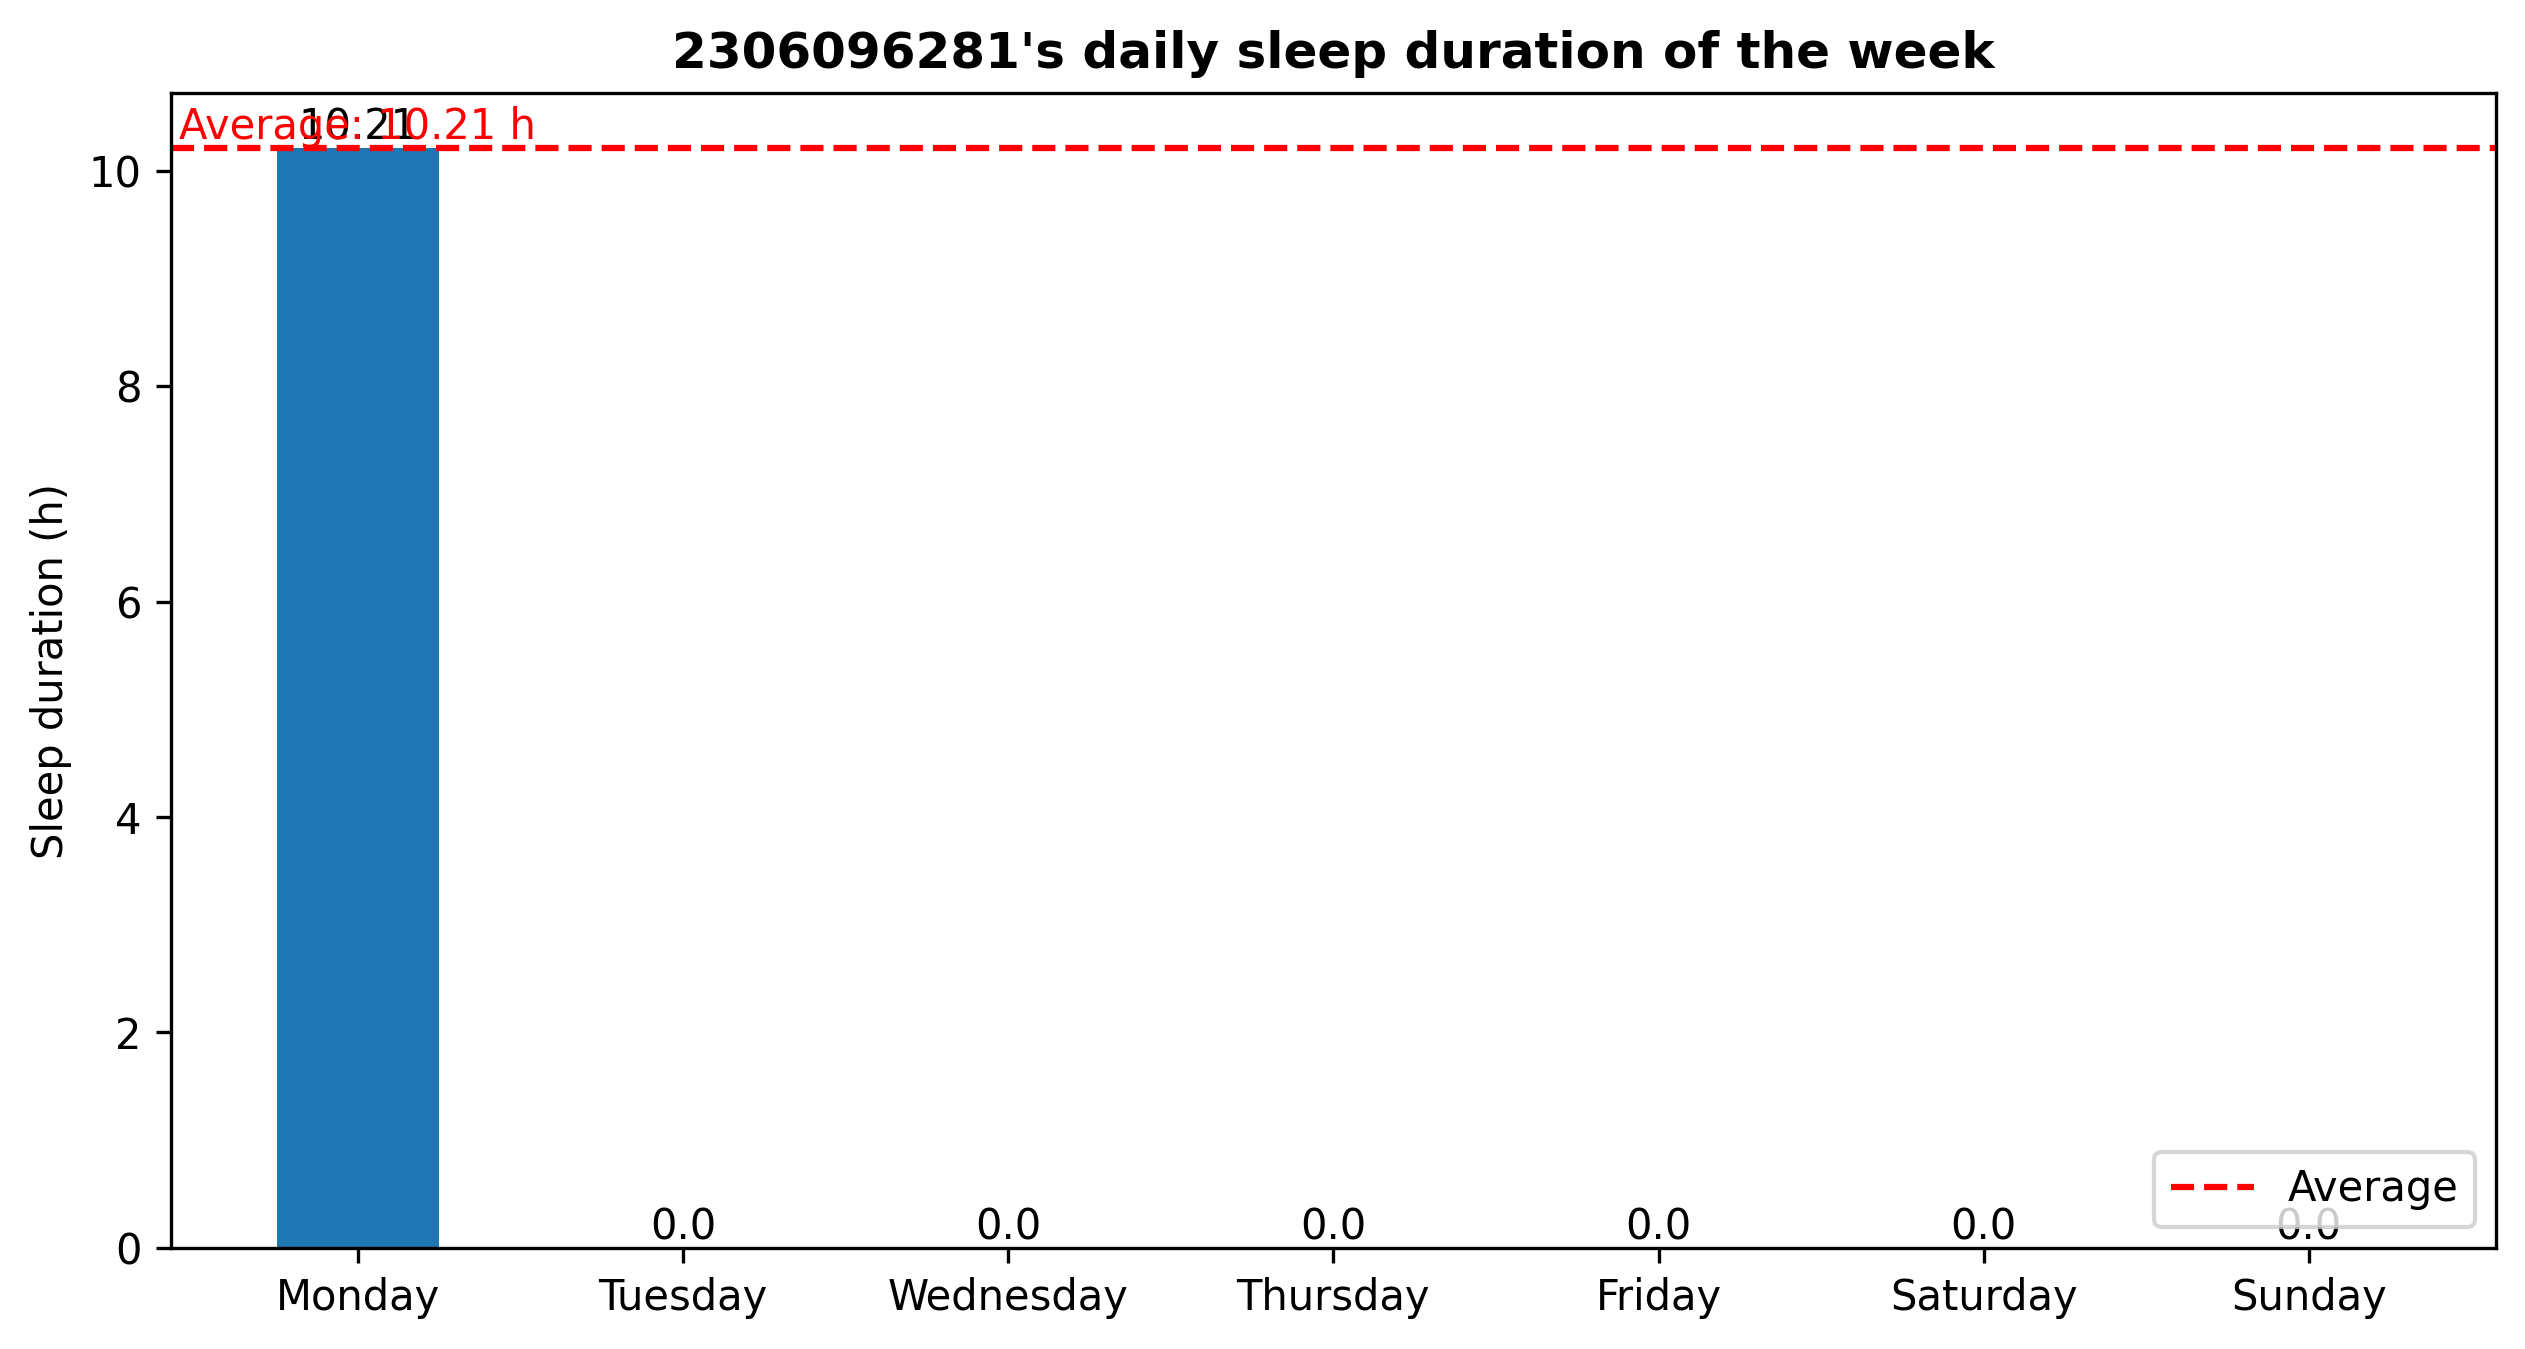
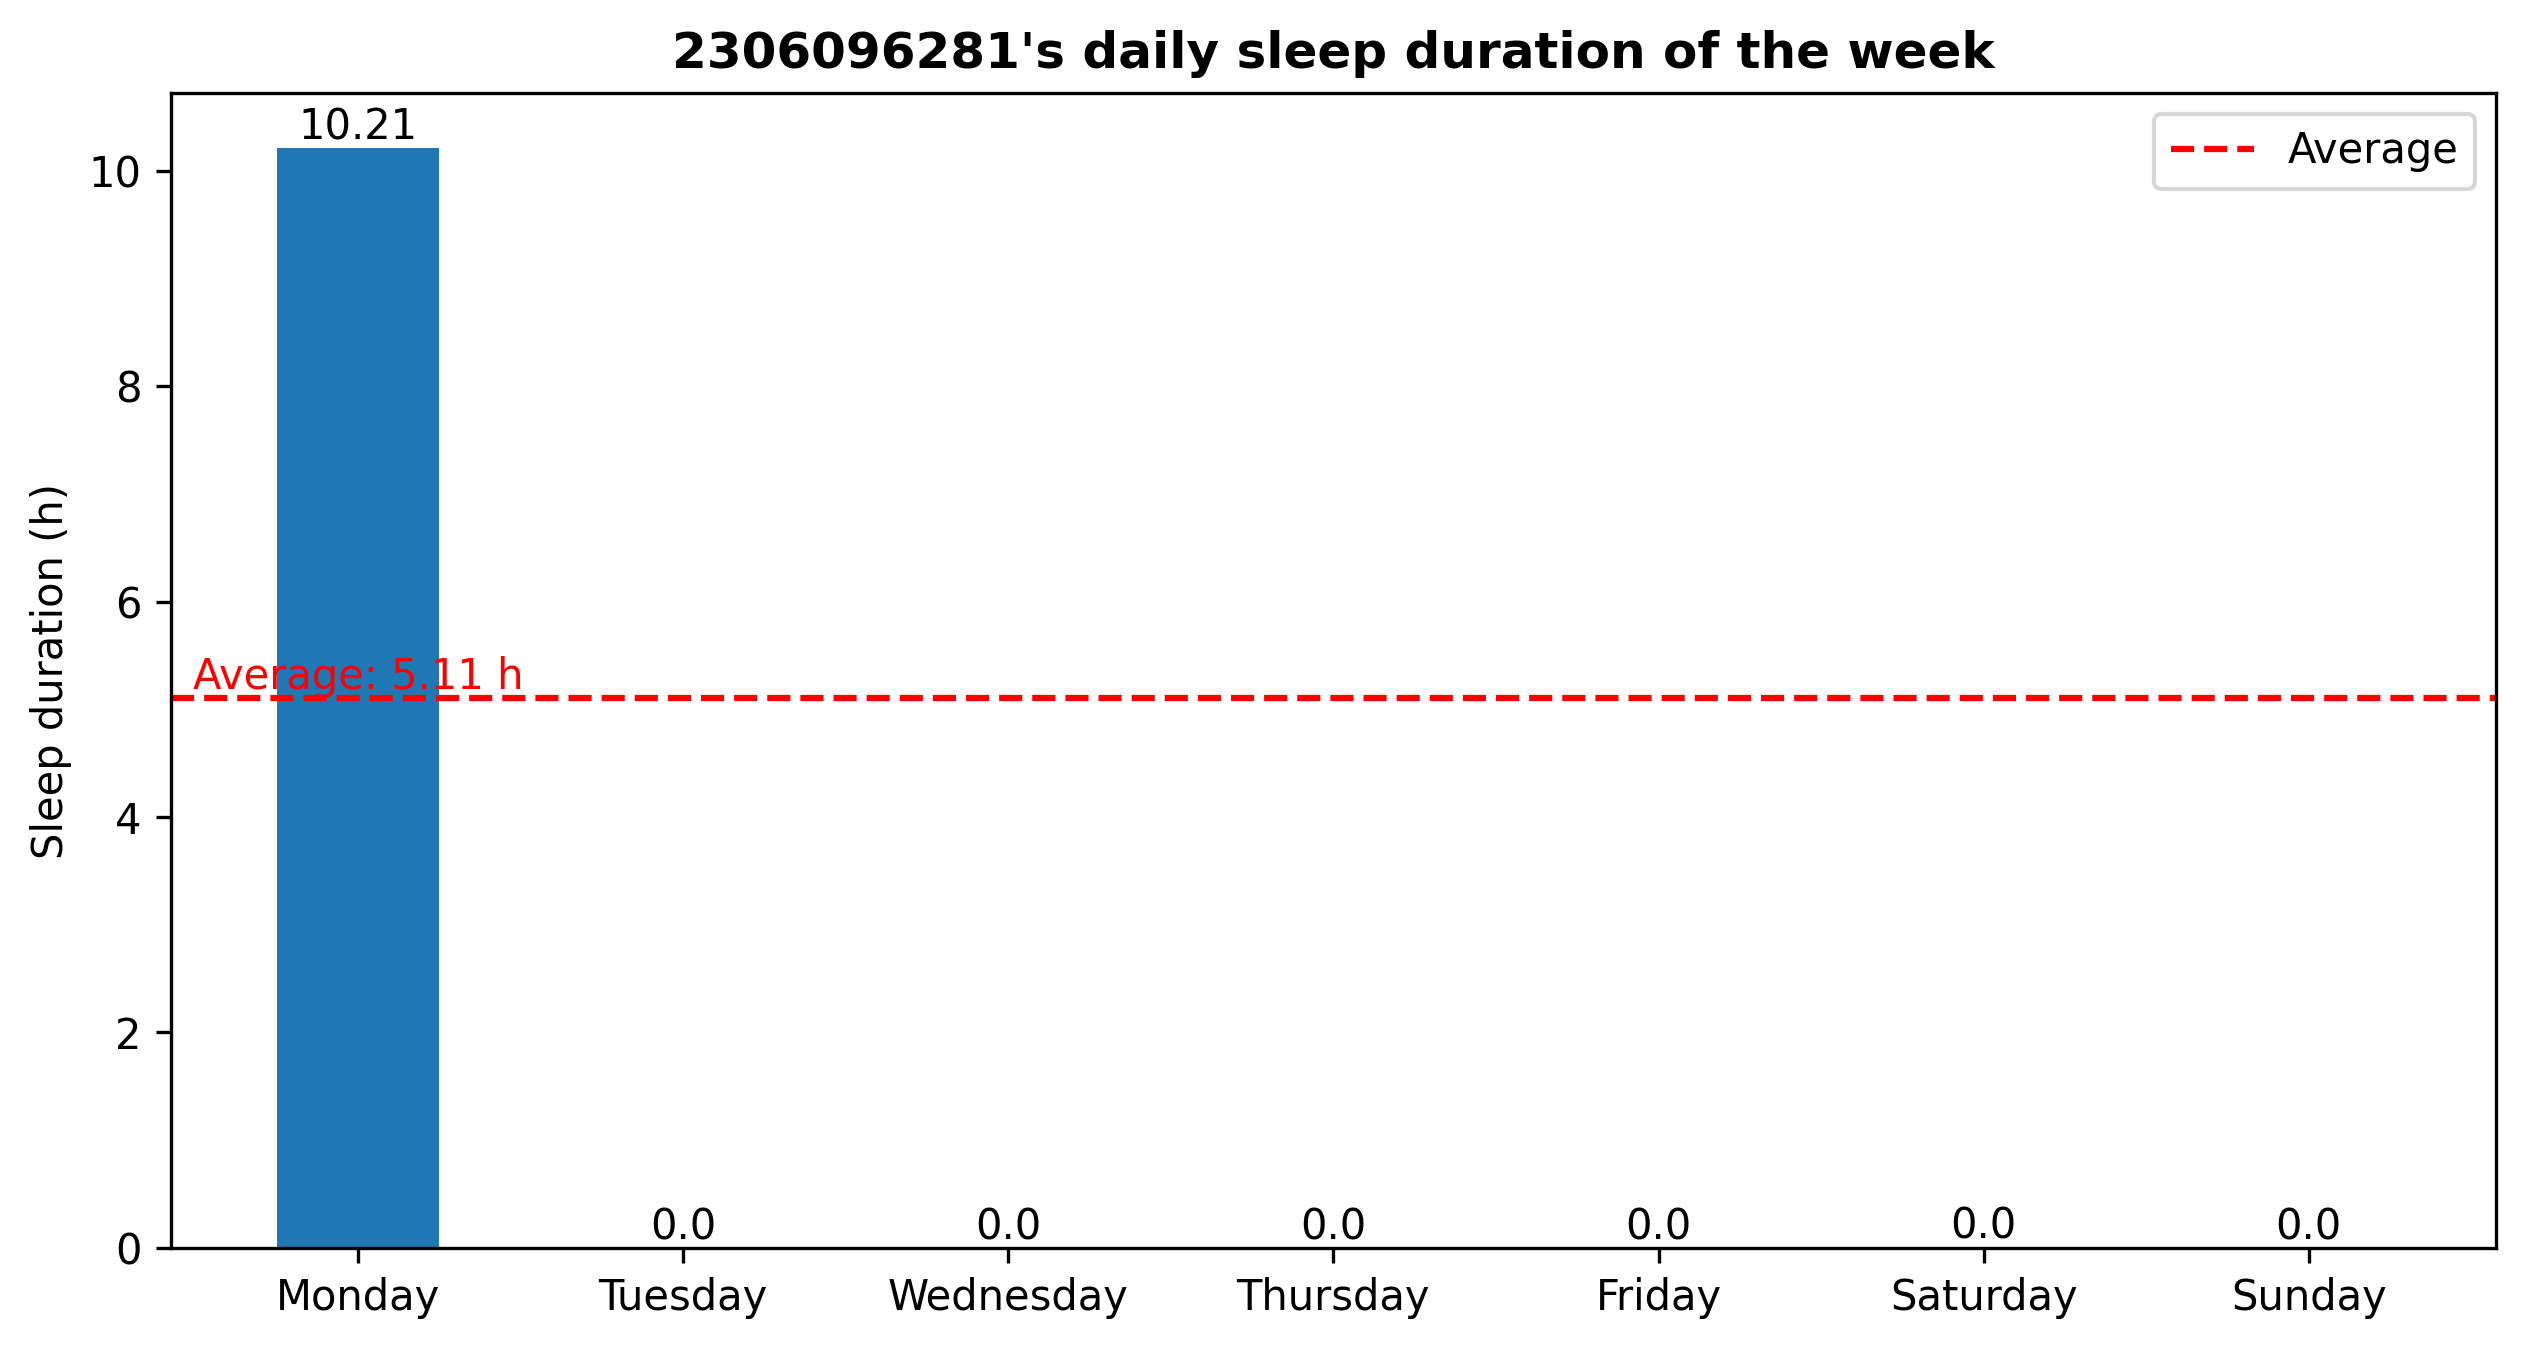
fixed counting sleep time

Changed region(s): [[0.0618, 0.0623, 0.9885, 0.1557], [0.0618, 0.4981, 0.9885, 0.5293], [0.865, 0.8406, 0.9885, 0.934]]

diff --git a/src/plugins/sleep/sleep_record.py b/src/plugins/sleep/sleep_record.py
@@ -21,7 +21,7 @@ def get_daily_sleep_duration(user_id: str) -> MessageSegment:
         start_of_day = start_of_each_day[i]
         end_of_day = start_of_each_day[i+1] - 1
         sleep_durations = []
-        start_index, stop_index = -1, -1
+        start_index, stop_index = None, None
         for j in range(len(sorted_data)):
             if float(sorted_data[j][0]) >= start_of_day:
                 start_index = j
@@ -30,9 +30,14 @@ def get_daily_sleep_duration(user_id: str) -> MessageSegment:
             if float(sorted_data[j][0]) < end_of_day:
                 stop_index = j
                 break
-        for i in range(start_index, stop_index + 1, 2):
-            if start_index == -1: continue
-            sleep_durations.append(float(sorted_data[i+1][0]) - float(sorted_data[i][0]))
+        _data = []
+        if (start_index is not None) and (stop_index is not None):
+            if sorted_data[start_index][1] == "Awake": _data.append(start_of_day)
+            _data += [float(x[0]) for x in sorted_data[start_index:stop_index+1]]
+            if sorted_data[stop_index][1] == "Sleep": _data.append(end_of_day)
+        else: _data = [0, 0]
+        for i in range(len(_data), 2):
+            sleep_durations.append(float(_data[i+1]) - float(_data[i]))
         sleep_durations_day.append(sum(sleep_durations))
     average_sleep_duration = np.mean([x for x in sleep_durations_day if x != 0])
     plt.style.use('default')
